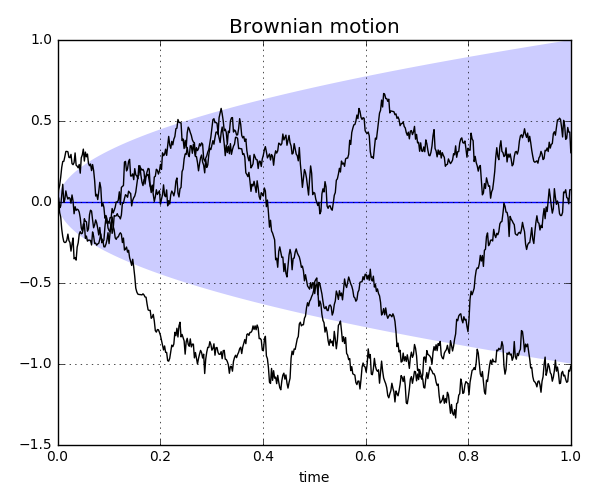
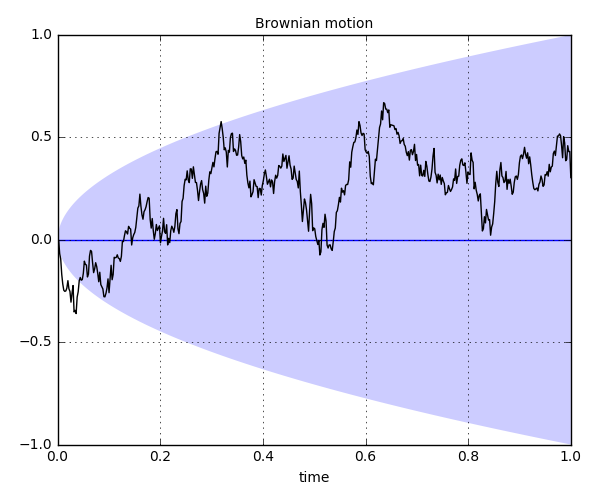
new gp demo and fixed bugs

diff --git a/rbf/gauss.py b/rbf/gauss.py
@@ -222,7 +222,6 @@ invertible is that :math:`q \geq m_u`.
 
 Prior Gaussian Processes
 ========================
-
 This module is primarily intended for Gaussian process regression 
 (GPR) and we begin a GPR problem by assuming a prior stochastic model 
 for the underlying signal which we are trying to uncover. In this 
@@ -312,29 +311,13 @@ def _draw_sample(mean,cov):
   return sample
 
 
-def _sigfigs(val,n):
-  ''' 
-  Returns *val* rounded to *n* significant figures. This is just for 
-  display purposes.
-  '''
-  if val == 0.0:
-    return np.float64(0.0)
-  
-  if ~np.isfinite(val):
-    return np.float64(val)
-    
-  d = -np.int(np.log10(np.abs(val))) + n - 1 
-  out = np.round(val,d)
-  return out
-    
-
 class Memoize(object):
   ''' 
   Memoizing decorator. The output for calls to decorated functions 
   will be cached and reused if the function is called again with the 
-  same arguments. The input arguments must either be hashable or numpy 
-  arrays. Caches can be cleared with the module-level function 
-  *clear_caches*.
+  same arguments. The input arguments for decorated functions must all 
+  be numpy arrays. Caches can be cleared with the module-level 
+  function *clear_caches*.
   '''
   # variable controlling the maximum cache size for all memoized 
   # functions
@@ -353,19 +336,7 @@ class Memoize(object):
     already stored in the cache. Otherwise, the cached value is 
     returned.
     '''
-    # generates hashable representations of the arguments
-    def hashables():
-      for a in args:
-        if hasattr(a,'tobytes'):
-          # if *a* has the method *tobytes*, then it is a numpy array. 
-          # The output for *tobytes* is used in the key, since the array 
-          # is not hashable.
-          yield a.tobytes()
-        else:
-          yield a
-          
-    # create the cache key. 
-    key = tuple(hashables())        
+    key = tuple(a.tobytes() for a in args)
     if key not in self.cache:
       output = self.fin(*args)
       # make sure there is room for the new entry
@@ -535,7 +506,7 @@ def _condition_factory(gp,y,d,sigma,obs_diff):
   return mean,covariance
 
 
-def _prior_factory(basis,coeff,order):
+def _rbf_factory(basis,coeff,order):
   ''' 
   Factory function which returns the mean and covariance functions for 
   a *RBFGaussianProcess*.
@@ -557,8 +528,8 @@ def _prior_factory(basis,coeff,order):
     out = b*(-1)**sum(diff2)*basis(x1,x2,eps=c,diff=diff)
     if np.any(~np.isfinite(out)):
       raise ValueError(
-        'Encountered a non-finite prior covariance. This may be '
-        'because the prior basis function is not sufficiently '
+        'Encountered a non-finite RBF covariance. This may be '
+        'because the basis function is not sufficiently '
         'differentiable.')
 
     return out
@@ -674,6 +645,7 @@ class GaussianProcess(object):
 
       self._covariance = covariance_with_diff
     else:
+      # otherwise, assume that the function can take four arguuments
       self._covariance = covariance
     
     self.order = order
@@ -747,7 +719,9 @@ class GaussianProcess(object):
         
     mean,covariance = _add_factory(self,other)
     order = max(self.order,other.order)
-    out = GaussianProcess(mean,covariance,order=order)
+    # dim is set to the non-*None* value, if it exists
+    dim = max(self.dim,other.dim)
+    out = GaussianProcess(mean,covariance,order=order,dim=dim)
     return out
 
   def subtract(self,other):
@@ -773,7 +747,9 @@ class GaussianProcess(object):
 
     mean,covariance = _subtract_factory(self,other)
     order = max(self.order,other.order)
-    out = GaussianProcess(mean,covariance,order=order)
+    # dim is set to the non-*None* value, if it exists
+    dim = max(self.dim,other.dim)
+    out = GaussianProcess(mean,covariance,order=order,dim=dim)
     return out
     
   def scale(self,c):
@@ -796,7 +772,7 @@ class GaussianProcess(object):
     else:
       order = -1
         
-    out = GaussianProcess(mean,covariance,order=order)
+    out = GaussianProcess(mean,covariance,order=order,dim=self.dim)
     return out
 
   def differentiate(self,d):
@@ -1284,7 +1260,7 @@ class RBFGaussianProcess(GaussianProcess):
     if coeff.shape[0] != 3:
       raise ValueError('*coeff* must be a (3,) array')
       
-    mean,covariance = _prior_factory(basis,coeff,order)
+    mean,covariance = _rbf_factory(basis,coeff,order)
     GaussianProcess.__init__(self,mean,covariance,order=order,dim=dim)
     # A RBFGaussian process has these additional private attributes
     self._basis = basis
@@ -1294,9 +1270,7 @@ class RBFGaussianProcess(GaussianProcess):
     # make the repr string once and then reuse it.
     if not hasattr(self,'_repr_string'):
       # make string for __repr__
-      a = _sigfigs(self._coeff[0],3)
-      b = _sigfigs(self._coeff[1],3)
-      c = 1.0/_sigfigs(1.0/self._coeff[2],3)
+      a,b,c = self._coeff 
       eps = rbf.basis.get_eps()
       cov_expr = b*self._basis.expr.subs(eps,c)
       try:

diff --git a/docs/scripts/gauss.d.py b/docs/scripts/gauss.d.py
@@ -1,33 +1,35 @@
 ''' 
-This script demonstrates how to create a Gaussian process directly 
-with the *GaussianProcess* class. In this script we draw samples of 
-Brownian motion.
+This script demonstrates how create a Gaussian process describing 
+Brownian motion with the *GaussianProcess* class.
 '''
 import numpy as np
 import matplotlib.pyplot as plt
 from rbf.gauss import GaussianProcess
 np.random.seed(4)
 
+# define mean function
 def brownian_mean(x):
   out = np.zeros(x.shape[0])
   return out
 
+# define covariance function
 def brownian_cov(x1,x2):
   c = np.min(np.meshgrid(x2[:,0],x1[:,0]),axis=0)
   return c
 
 t = np.linspace(0,1,500)[:,None]
 brown = GaussianProcess(brownian_mean,brownian_cov)
-samples = [brown.draw_sample(t) for i in range(3)]
-mu,sigma = brown(t)
+sample = brown.draw_sample(t) # draw a sample
+mu,sigma = brown(t) # evaluate the mean and std. dev.
 
+# plot the results
 fig,ax = plt.subplots(figsize=(6,5))
 ax.grid(True)
-ax.plot(t[:,0],mu,'b-')
-ax.fill_between(t[:,0],mu+sigma,mu-sigma,color='b',alpha=0.2,edgecolor='none')
-for s in samples: ax.plot(t[:,0],s,'k')
+ax.plot(t[:,0],mu,'b-',label='mean')
+ax.fill_between(t[:,0],mu+sigma,mu-sigma,color='b',alpha=0.2,edgecolor='none',label='std. dev.')
+ax.plot(t[:,0],sample,'k',label='sample')
 ax.set_xlabel('time',fontsize=10)
-ax.set_title('Brownian motion')
+ax.set_title('Brownian motion',fontsize=10)
 ax.tick_params(labelsize=10)
 fig.tight_layout()
 plt.savefig('../figures/gauss.d.png')

diff --git a/docs/scripts/gauss.e.py b/docs/scripts/gauss.e.py
@@ -1,0 +1,43 @@
+''' 
+This script demonstrates how to create a periodic Gaussian process 
+using the *RBFGaussianProcess* class.
+'''
+import numpy as np
+import matplotlib.pyplot as plt
+import rbf
+from sympy import sin,exp,pi 
+np.random.seed(1)
+
+period = 5.0 
+cls = 0.5 # characteristic length scale
+var = 1.0 # variance
+
+r = rbf.basis.get_r() # get symbolic variables
+eps = rbf.basis.get_eps()
+# create a symbolic expression of the periodic covariance function 
+expr = exp(-sin(r*pi/period)**2/eps**2)
+# define a periodic RBF using the symbolic expression
+basis = rbf.basis.RBF(expr)
+# define a Gaussian process using the periodic RBF
+gp = rbf.gauss.RBFGaussianProcess((0.0,var,cls),basis=basis,dim=1)
+
+t = np.linspace(-10,10,1000)[:,None]
+sample = gp.draw_sample(t) # draw a sample
+mu,sigma = gp(t) # evaluate mean and std. dev.
+
+# plot the results
+fig,ax = plt.subplots(figsize=(6,5))
+ax.grid(True)
+ax.plot(t[:,0],mu,'b-',label='mean')
+ax.fill_between(t[:,0],mu-sigma,mu+sigma,color='b',alpha=0.2,edgecolor='none',label='std. dev.')
+ax.plot(t,sample,'k',label='sample')
+ax.set_xlim((-10.0,10.0))
+ax.set_ylim((-2.5*var,2.5*var))
+ax.legend(frameon=False,loc=4,fontsize=10)
+ax.tick_params(labelsize=10)
+ax.set_xlabel('time',fontsize=10)
+ax.set_title('periodic Gaussian process',fontsize=10)
+fig.tight_layout()
+plt.savefig('../figures/gauss.e.png')
+plt.show()
+

diff --git a/docs/scripts/gauss.a.py b/docs/scripts/gauss.a.py
@@ -18,7 +18,7 @@ d = np.exp(-0.3*np.abs(y))*np.sin(y) + np.random.normal(0.0,sigma)
 # form a prior Gaussian process which has a squared exponential basis 
 # function (rbf.basis.se), 0.0 for the mean, 1.0 for the standard 
 # deviation, and 2.0 for the characteristic length scale.
-gp = rbf.gauss.PriorGaussianProcess((0.0,1.0,2.0),basis=rbf.basis.se)
+gp = rbf.gauss.RBFGaussianProcess((0.0,1.0,2.0),basis=rbf.basis.se)
 sample = gp.draw_sample(x[:,None]) # generate random sample
 mean,std = gp(x[:,None]) # find the mean and standard dev. at x
 gp_cond = gp.condition(y[:,None],d,sigma=sigma) # condition with data

diff --git a/docs/scripts/gauss.b.py b/docs/scripts/gauss.b.py
@@ -10,8 +10,8 @@ np.random.seed(1)
 
 dx = np.linspace(0.0,5.0,1000)[:,None]
 x = np.linspace(-5,5.0,1000)[:,None]
-gp_long = rbf.gauss.PriorGaussianProcess((0.0,1.0,2.0),basis=rbf.basis.se)
-gp_short = rbf.gauss.PriorGaussianProcess((0.0,0.5,0.25),basis=rbf.basis.se)
+gp_long = rbf.gauss.RBFGaussianProcess((0.0,1.0,2.0),basis=rbf.basis.se)
+gp_short = rbf.gauss.RBFGaussianProcess((0.0,0.5,0.25),basis=rbf.basis.se)
 gp = gp_long + gp_short
 # compute the autocovariances 
 acov_long = gp_long.covariance(dx,[[0.0]])

diff --git a/docs/scripts/gauss.c.py b/docs/scripts/gauss.c.py
@@ -57,7 +57,7 @@ def robust_gpr(y,d,s,coeffs,x=None,basis=rbf.basis.se,order=1,tol=3.0):
   if x is None: x = y
   # Initially assume that none of the data are outliers
   is_outlier = np.zeros(d.shape[0],dtype=bool)
-  prior = rbf.gauss.PriorGaussianProcess(coeffs,basis=basis,order=order)
+  prior = rbf.gauss.RBFGaussianProcess(coeffs,basis=basis,order=order)
   while True:
     # form posterior ignoring detected outliers
     post = prior.condition(y[~is_outlier],d[~is_outlier],sigma=s[~is_outlier])

diff --git a/docs/source/gauss.rst b/docs/source/gauss.rst
@@ -7,9 +7,6 @@ Gauss (Gaussian Process)
 
 Examples
 --------
-.. literalinclude:: ../scripts/gauss.d.py
-.. image:: ../figures/gauss.d.png
-
 .. literalinclude:: ../scripts/gauss.a.py
 .. image:: ../figures/gauss.a.png
 
@@ -18,3 +15,9 @@ Examples
 
 .. literalinclude:: ../scripts/gauss.c.py
 .. image:: ../figures/gauss.c.png
+
+.. literalinclude:: ../scripts/gauss.d.py
+.. image:: ../figures/gauss.d.png
+
+.. literalinclude:: ../scripts/gauss.e.py
+.. image:: ../figures/gauss.e.png
